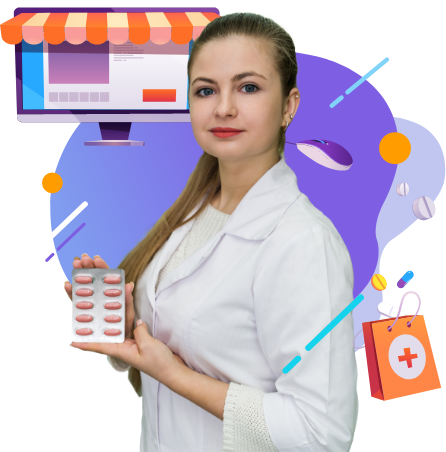
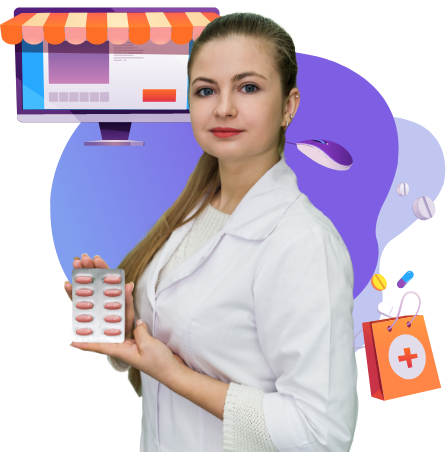
Ajustes 3

diff --git a/src/styles/_custom.sass b/src/styles/_custom.sass
@@ -1,13 +1,21 @@
-.banner-principal__row .banner-principal__img
-  width: 400px
-  animation: float1 3.5s ease-in-out infinite alternate
-  position: relative
+.banner-principal-decorativo
+  &-1
+    animation: rotation 9s infinite linear
+    position: absolute
+    width: 108%
+    bottom: 45%
+    left: -10%
 
-@keyframes float1
+@keyframes rotation
   0%
-    transform: translateY(-20px)
+    transform: rotate(0deg)
+    opacity: 0
+  50%
+    transform: rotate(180deg)
+    opacity: 1
   100%
-    transform: translateY(0px)
+    transform: rotate(359deg)
+    opacity: 0
 
 .banner-principal
   .banner-principal__img

diff --git a/src/config/global.js b/src/config/global.js
@@ -7,7 +7,12 @@ export default {
 
     imagenBannerPrincipal: require('@/assets/curso/portada/banner-princiapal.png'),
     fondoBannerPrincipal: require('@/assets/curso/portada/fondo-banner-principal.png'),
-    imagenesDecorativasBanner: [],
+    imagenesDecorativasBanner: [
+      {
+        clases: ['banner-principal-decorativo-1', 'd-none', 'd-lg-block'],
+        imagen: require('@/assets/curso/portada/banner-principal-decorativo-1.svg'),
+      },
+    ],
   },
   menuPrincipal: {
     menu: [

diff --git a/README.md b/README.md
@@ -2,7 +2,7 @@
 
 ## **Enlace GitHubPages**
 
-[https://github.com/ECORED-BOGOTA-DC/CF29_REGENCIA_FARMACIA](https://github.com/ECORED-BOGOTA-DC/CF29_REGENCIA_FARMACIA)
+[https://ecored-bogota-dc.github.io/CF29_REGENCIA_FARMACIA/#/](https://ecored-bogota-dc.github.io/CF29_REGENCIA_FARMACIA/#/)
 
 #
 
